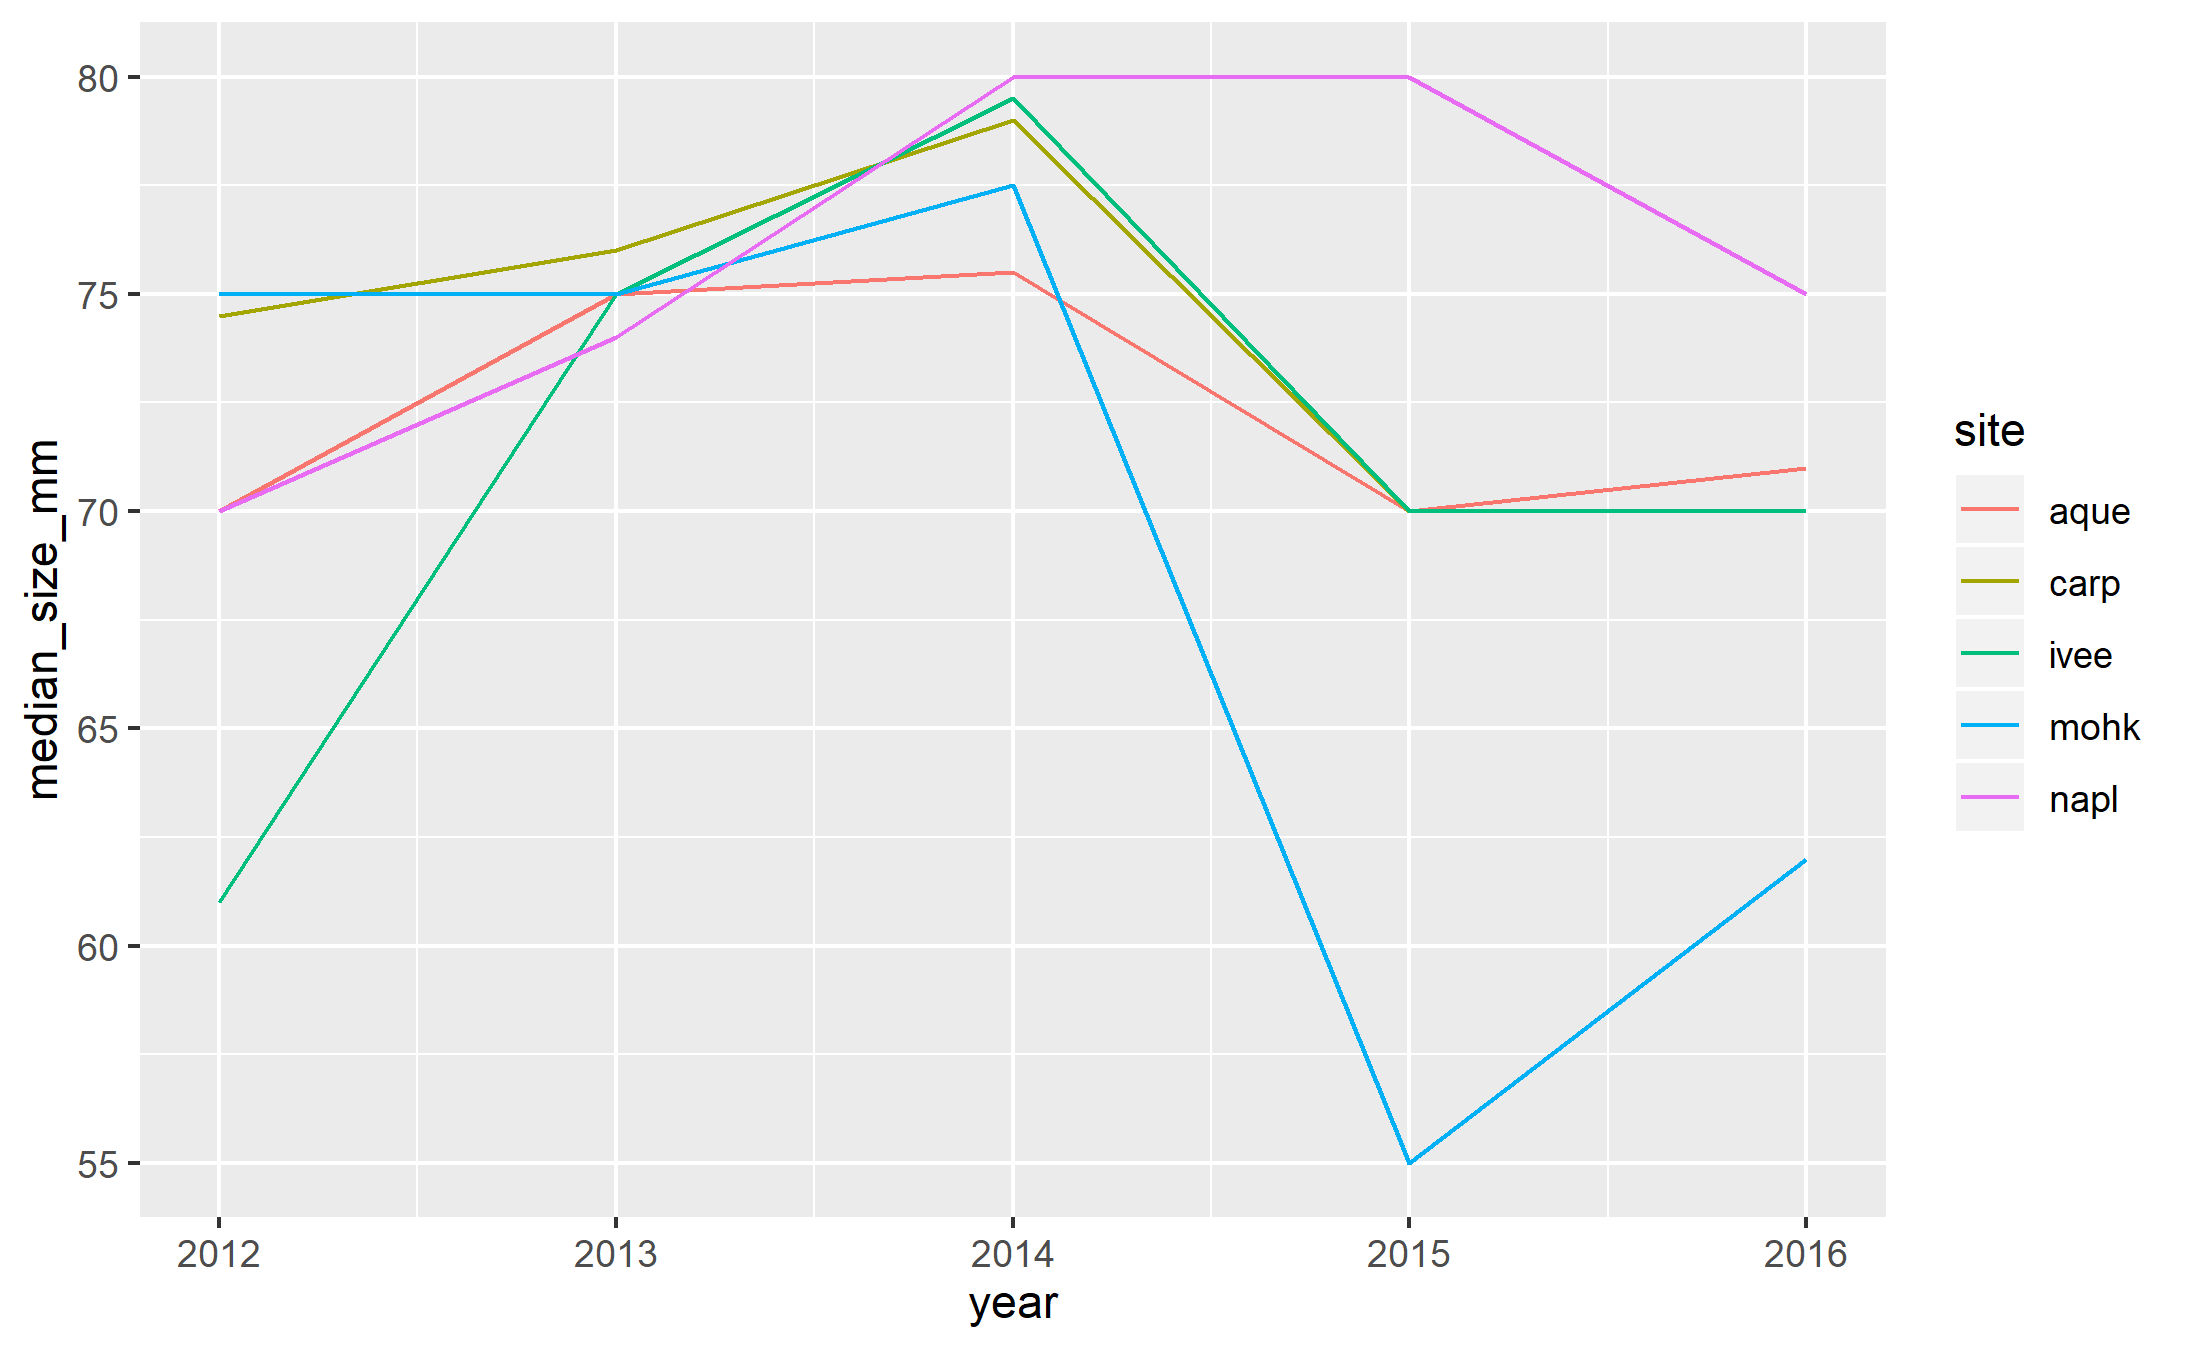
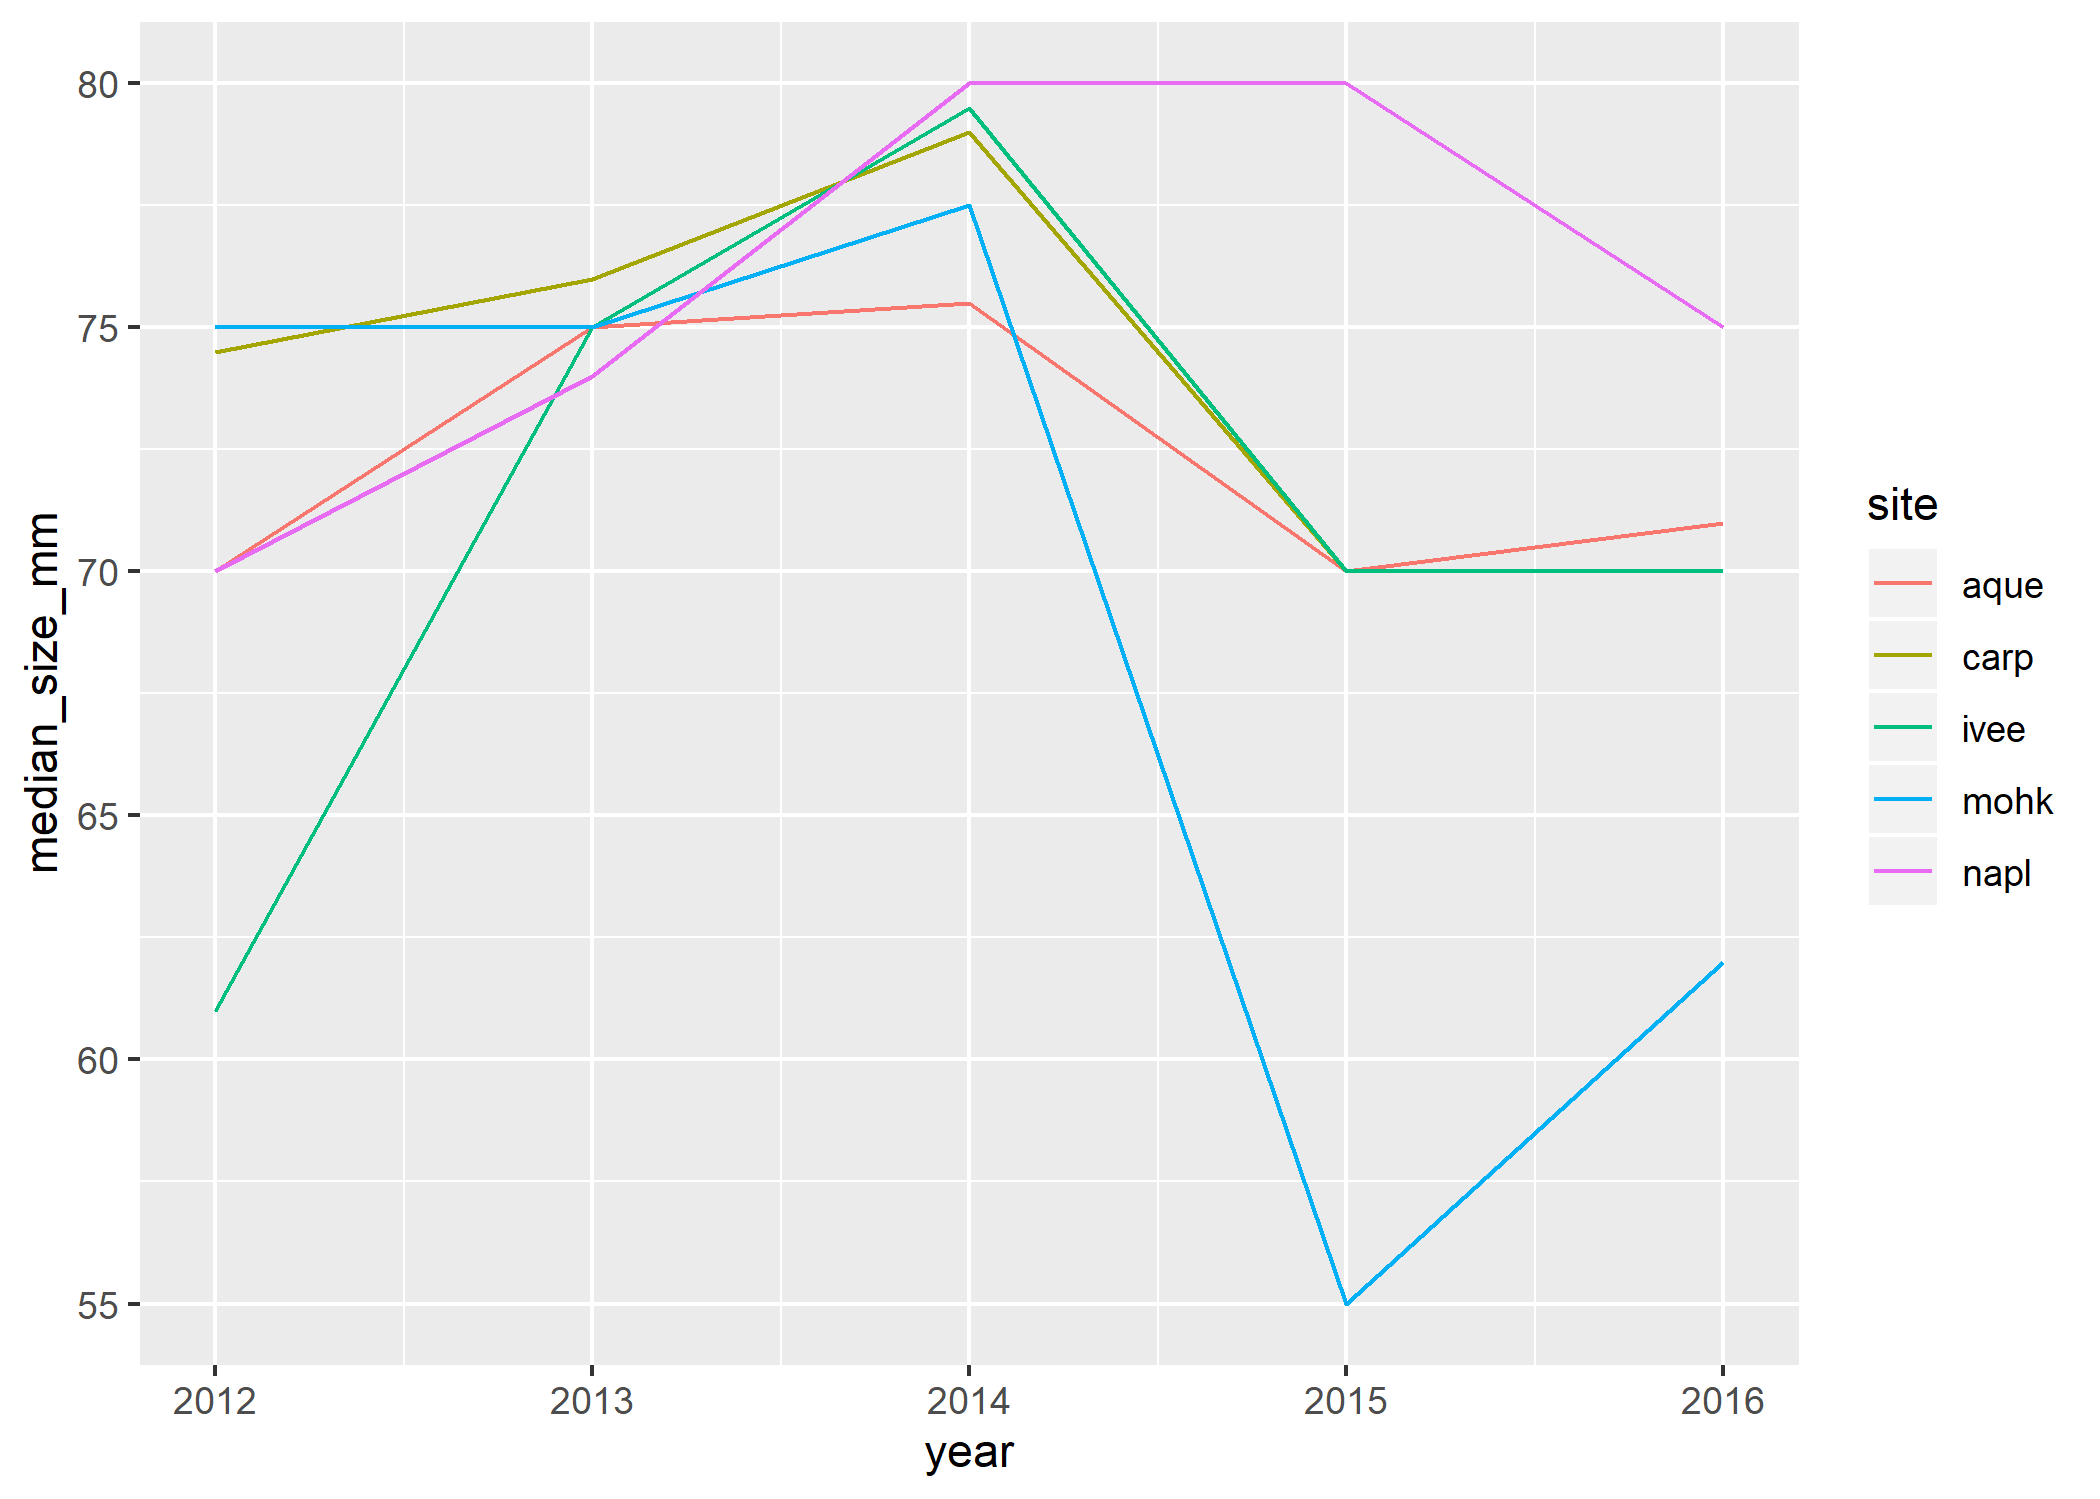
Re-knit as part of endOfDay Activity

diff --git a/pivot_lobsters.html b/pivot_lobsters.html
@@ -1660,7 +1660,29 @@ napl
 </tr>
 </tbody>
 </table>
-<p><strong>NOTE:</strong> The addition of the r at the beginning tells RMarkdown that you want this code snippet to run when you knit this. There are 2893 total lobsters included in this report.</p>
+<p>There are 2893 total lobsters included in this report.<br />
+<strong>NOTE:</strong> The addition of the r at the beginning tells RMarkdown that you want this code snippet to run when you knit this.</p>
+<div id="activity" class="section level2">
+<h2>Activity</h2>
+<ol style="list-style-type: decimal">
+<li>build from our analyses: calculate the median lobster size for each site and year (hint: <code>size_mm</code> variable anhd a function called <code>median()</code></li>
+</ol>
+<pre class="r"><code>siteyear_median_lobster_size &lt;- lobsters %&gt;% 
+  group_by(site, year) %&gt;% 
+  summarize(count_by_site_year = n(),
+            median_size_mm = median(size_mm, na.rm= TRUE))</code></pre>
+<ol start="2" style="list-style-type: decimal">
+<li>create a ggplot and save. For example:</li>
+</ol>
+<pre class="r"><code>ggplot(data = siteyear_median_lobster_size, aes(x = year, y = median_size_mm, color = site)) +
+  geom_line()</code></pre>
[1 lines of base64/hex data omitted]
+<pre class="r"><code>ggsave(here(&quot;figures&quot;, &quot;lobsters-plot.png&quot;))</code></pre>
+<pre><code>## Saving 7 x 5 in image</code></pre>
+<ol start="3" style="list-style-type: decimal">
+<li>sync this to github</li>
+</ol>
+</div>
 </div>
 
 
